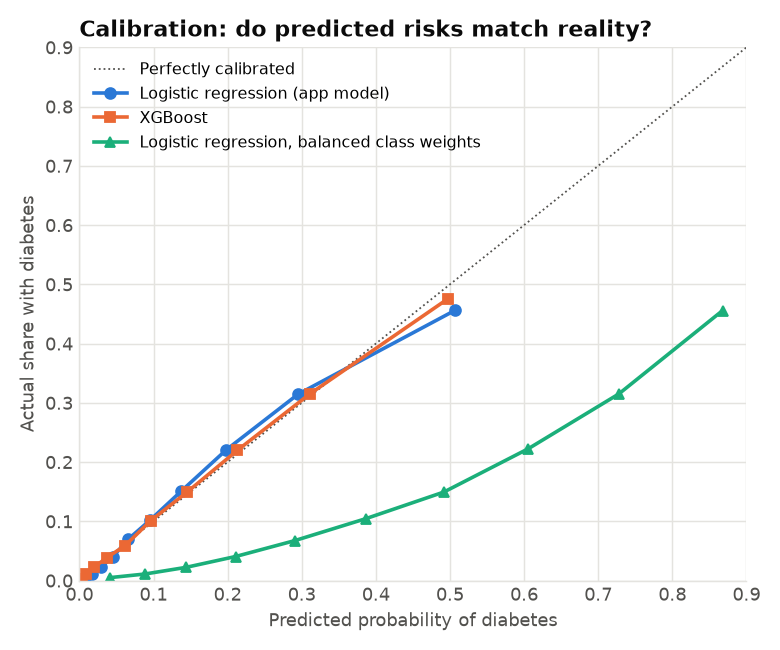
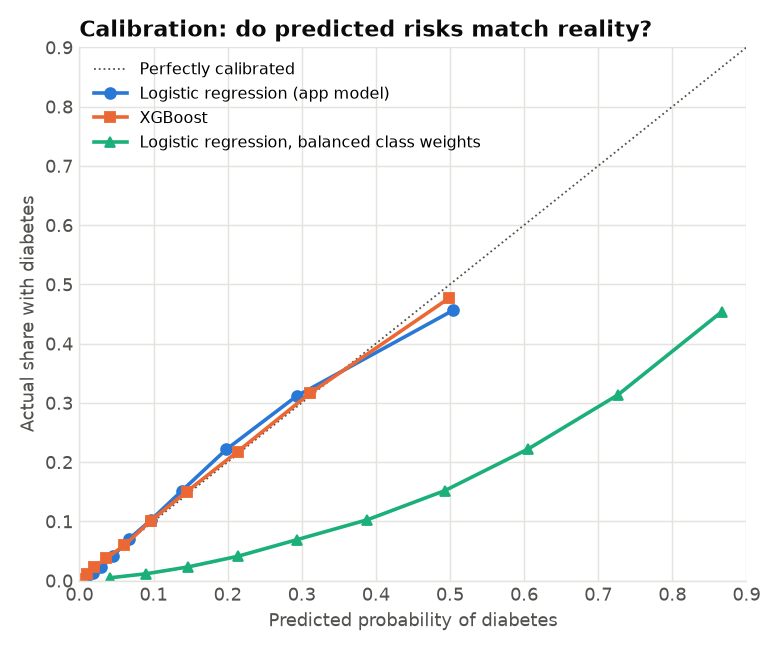
Remove heavy drinking from the app model
Heavy drinkers report less diabetes in the survey, so the model lowered the risk it showed them. Retrained with 15 inputs: ROC-AUC 0.818 (was 0.819).

diff --git a/app/app.py b/app/app.py
@@ -78,16 +78,12 @@ def input_form() -> dict | None:
             veg = yes_no("Vegetables at least once a day?", "veg")
         with col2:
             smoker = yes_no("Smoked 100+ cigarettes in your life?", "smoker", "That is about 5 packs in total.")
-            drinker = yes_no(
-                "Heavy drinker?", "drinker",
-                "More than 14 drinks a week for men, or more than 7 for women.",
-            )
 
         submitted = st.form_submit_button("Estimate my risk", type="primary", width="stretch")
 
     if not submitted:
         return None
-    yes_no_answers = [high_bp, high_chol, heart, stroke, walking, active, fruit, veg, smoker, drinker]
+    yes_no_answers = [high_bp, high_chol, heart, stroke, walking, active, fruit, veg, smoker]
     missing = sum(a is None for a in yes_no_answers) + (sex is None)
     if missing:
         st.error(f"Please answer every question. {missing} still need{'s' if missing == 1 else ''} an answer.")
@@ -109,7 +105,6 @@ def input_form() -> dict | None:
         "eats_fruit_daily": fruit,
         "eats_veg_daily": veg,
         "is_smoker": smoker,
-        "is_heavy_drinker": drinker,
     }
 
 
@@ -176,12 +171,6 @@ def show_result(answers: dict, pipeline, info: dict) -> None:
         )[["factor", "direction", "odds_multiplier"]]
         st.dataframe(table, hide_index=True, width="stretch")
 
-    if answers["is_heavy_drinker"]:
-        st.warning(
-            "The model lowers the estimate for heavy drinkers. This is a quirk of the survey data, "
-            "most likely because people diagnosed with diabetes are told to cut down. "
-            "Alcohol does not protect against diabetes."
-        )
     if answers["age"] >= 80:
         st.caption("Everyone aged 80 and over is treated as one group, because that is how the survey recorded age.")
     if bmi > info["bmi_cap"]:
@@ -226,6 +215,9 @@ def about_tab(info: dict) -> None:
         "Most adult cases are type 2.\n"
         "- The model finds **associations, not causes**. Changing an answer changes the estimate, "
         "but that does not mean changing the behaviour would change your risk by the same amount.\n"
+        "- Alcohol is deliberately left out. Heavy drinkers in the survey reported *less* diabetes, "
+        "most likely because people who are diagnosed are told to cut down, so including it would "
+        "have lowered the risk shown to heavy drinkers.\n"
         "- It knows nothing about family history, ethnicity, blood sugar or medication, "
         "which doctors use to assess risk."
     )
@@ -241,7 +233,7 @@ def main() -> None:
         "portfolio. It is not a diagnosis and is no substitute for seeing a health professional.",
         icon="⚠",
     )
-    st.write("Answer 16 questions to see how your risk compares with 250,000 survey respondents.")
+    st.write("Answer a few questions to see how your risk compares with 250,000 survey respondents.")
 
     estimate, about = st.tabs(["Estimate my risk", "About the model"])
     with estimate:

diff --git a/src/train_model.py b/src/train_model.py
@@ -49,17 +49,20 @@ TARGET = "has_diabetes"
 BMI_CAP = 50  # BMI above this is treated as 50: the few extreme values distort a linear model
 
 # --- Feature sets -------------------------------------------------------------
-# The web app asks only health and lifestyle questions (16 inputs).
+# The web app asks only health and lifestyle questions (15 inputs).
 APP_BINARY = [
     "is_male", "is_smoker", "is_physically_active", "eats_fruit_daily", "eats_veg_daily",
-    "is_heavy_drinker", "has_high_bp", "has_high_chol", "had_stroke", "has_heart_disease",
+    "has_high_bp", "has_high_chol", "had_stroke", "has_heart_disease",
     "has_difficulty_walking",
 ]
 APP_NUMERIC = ["general_health", "poor_mental_days", "poor_physical_days"]
 APP_FEATURES = APP_BINARY + APP_NUMERIC + ["bmi", "age_group_id"]
 
-# The five columns left out of the app model: income, education and access to care.
-EXTRA_BINARY = ["has_healthcare", "skipped_doctor_cost", "had_chol_check"]
+# The six columns left out of the app model: income, education, access to care and
+# heavy drinking. Heavy drinkers report less diabetes in this survey (most likely
+# because people who are diagnosed are told to cut down), so a model that uses it
+# would lower the risk it shows to heavy drinkers.
+EXTRA_BINARY = ["has_healthcare", "skipped_doctor_cost", "had_chol_check", "is_heavy_drinker"]
 EXTRA_NUMERIC = ["education_id", "income_id"]
 ALL_FEATURES = APP_FEATURES + EXTRA_BINARY + EXTRA_NUMERIC
 
@@ -75,7 +78,6 @@ LABELS = {
     "is_physically_active": "Physically active",
     "eats_fruit_daily": "Eats fruit daily",
     "eats_veg_daily": "Eats vegetables daily",
-    "is_heavy_drinker": "Heavy drinker",
     "has_high_bp": "High blood pressure",
     "has_high_chol": "High cholesterol",
     "had_stroke": "Had a stroke",

diff --git a/tests/test_risk_model.py b/tests/test_risk_model.py
@@ -16,7 +16,7 @@ from risk_model import age_to_group, bmi_category, bmi_from, load_model, predict
 
 HEALTHY = dict(
     is_male=0, is_smoker=0, is_physically_active=1, eats_fruit_daily=1, eats_veg_daily=1,
-    is_heavy_drinker=0, has_high_bp=0, has_high_chol=0, had_stroke=0, has_heart_disease=0,
+    has_high_bp=0, has_high_chol=0, had_stroke=0, has_heart_disease=0,
     has_difficulty_walking=0, general_health=2, poor_mental_days=0, poor_physical_days=0,
     bmi=22.0, age_group_id=2,
 )
@@ -73,6 +73,12 @@ def test_contributions_add_up_to_the_prediction(model):
         result = predict(pipeline, info, person)
         log_odds = baseline_log_odds + result.contributions["log_odds"].sum()
         assert 1 / (1 + np.exp(-log_odds)) == pytest.approx(result.probability, abs=1e-4)
+
+
+def test_alcohol_is_not_a_model_input(model):
+    """Heavy drinking is left out on purpose: see the note in src/train_model.py."""
+    _, info = model
+    assert "is_heavy_drinker" not in info["features"]
 
 
 def test_bmi_is_capped(model):

diff --git a/app/risk_model.py b/app/risk_model.py
@@ -22,7 +22,6 @@ BINARY_LABELS = {
     "is_physically_active": ("Being physically active", "Not being physically active"),
     "eats_fruit_daily": ("Eating fruit daily", "Not eating fruit daily"),
     "eats_veg_daily": ("Eating vegetables daily", "Not eating vegetables daily"),
-    "is_heavy_drinker": ("Heavy drinking", "Not drinking heavily"),
     "has_high_bp": ("High blood pressure", "No high blood pressure"),
     "has_high_chol": ("High cholesterol", "No high cholesterol"),
     "had_stroke": ("A previous stroke", "No previous stroke"),

diff --git a/tests/test_app.py b/tests/test_app.py
@@ -6,7 +6,7 @@ import pytest
 from streamlit.testing.v1 import AppTest
 
 APP = str(Path(__file__).resolve().parents[1] / "app" / "app.py")
-YES_NO_KEYS = ["high_bp", "high_chol", "heart", "stroke", "walking", "active", "fruit", "veg", "smoker", "drinker"]
+YES_NO_KEYS = ["high_bp", "high_chol", "heart", "stroke", "walking", "active", "fruit", "veg", "smoker"]
 
 
 @pytest.fixture

diff --git a/README.md b/README.md
@@ -146,24 +146,30 @@ holds out 20% of patients as a test set, and compares four models.
 
 | Model | Inputs | ROC-AUC | PR-AUC | Brier score | Average predicted risk |
 |---|---|---|---|---|---|
-| **Logistic regression (used in the app)** | 16 | 0.819 | 0.408 | 0.099 | 14.0% |
+| **Logistic regression (used in the app)** | 15 | 0.818 | 0.406 | 0.099 | 14.0% |
 | Logistic regression, all features | 21 | 0.822 | 0.411 | 0.099 | 14.0% |
-| Logistic regression, balanced class weights | 16 | 0.820 | 0.407 | 0.177 | 38.5% |
-| XGBoost | 21 | 0.828 | 0.425 | 0.097 | 13.9% |
+| Logistic regression, balanced class weights | 15 | 0.818 | 0.405 | 0.178 | 38.7% |
+| XGBoost | 21 | 0.828 | 0.424 | 0.097 | 13.9% |
 
 The actual diabetes rate in the test set is 13.9%. Five-fold cross-validation on the
-training set gives a ROC-AUC of 0.824 (standard deviation 0.002).
+training set gives a ROC-AUC of 0.822 (standard deviation 0.001).
 
-**Why logistic regression.** XGBoost is better by under 0.01 ROC-AUC. That is too small
+**Why logistic regression.** XGBoost is better by about 0.01 ROC-AUC. That is too small
 a gain to give up coefficients that can be read as odds ratios and shown to the user.
 
-**Why 16 inputs.** The app model leaves out income, education and three access-to-care
-questions. Adding them improves ROC-AUC by 0.003, which does not justify asking people
-for their income in a health tool.
+**Why 15 inputs.** The app model leaves out six of the 21 survey columns. Adding them all
+back improves ROC-AUC by under 0.005.
+
+- *Income, education and three access-to-care questions* are left out because a health
+  tool should not need to ask for someone's income.
+- *Heavy drinking* is left out because it misleads. Heavy drinkers in the survey report
+  less diabetes (5.8% against 14.4%), most likely because people who are diagnosed are told
+  to cut down. A model that used it gave heavy drinkers an odds ratio of 0.44, which more
+  than halved the risk it showed them.
 
 **Why no class weighting.** Only 13.9% of patients have diabetes. Balancing the classes
-leaves the ranking unchanged (ROC-AUC 0.820) but makes the model predict an average risk
-of 38.5%, almost three times the truth. The app shows people a probability, so the
+leaves the ranking unchanged (ROC-AUC 0.818) but makes the model predict an average risk
+of 38.7%, almost three times the truth. The app shows people a probability, so the
 probability has to be honest.
 
 ![ROC and precision-recall curves](docs/figures/roc_pr_curves.png)
@@ -176,13 +182,13 @@ The app turns the predicted probability into three levels. On the test set:
 
 | Level | Predicted risk | Share of people | Actual diabetes rate | Share of all cases |
 |---|---|---|---|---|
-| Low | Under 10% | 56.3% | 3.7% | 15.0% |
-| Moderate | 10% to 25% | 24.8% | 17.9% | 31.8% |
-| High | 25% or more | 18.9% | 39.2% | 53.2% |
+| Low | Under 10% | 56.1% | 3.8% | 15.1% |
+| Moderate | 10% to 25% | 25.1% | 17.8% | 32.1% |
+| High | 25% or more | 18.8% | 39.2% | 52.8% |
 
 ### Odds ratios
 
-Each value is the effect of one factor with the other fifteen held constant.
+Each value is the effect of one factor with the other fourteen held constant.
 
 ![Odds ratios](docs/figures/odds_ratios.png)
 
@@ -190,13 +196,12 @@ These are smaller than the single-factor odds ratios in the SQL analysis. High b
 pressure falls from 5.0 on its own to 2.1 in the model, because people with high blood
 pressure also tend to be older and heavier, and the model credits those separately.
 
-Two results should not be read as advice. Heavy drinking has an odds ratio of 0.44, a
-known quirk of this survey: people diagnosed with diabetes are often told to stop
-drinking. Smoking and diet have almost no effect once the other factors are accounted for.
+Smoking and diet have almost no effect once the other factors are accounted for. That
+describes this survey and should not be read as advice.
 
 ## Web app
 
-[`app/app.py`](app/app.py) is a Streamlit app. It asks 16 questions and returns:
+[`app/app.py`](app/app.py) is a Streamlit app. It asks 15 questions and returns:
 
 - a risk level (low, moderate or high) and the estimated probability
 - a chart of which answers raise or lower that person's estimate, compared with the
